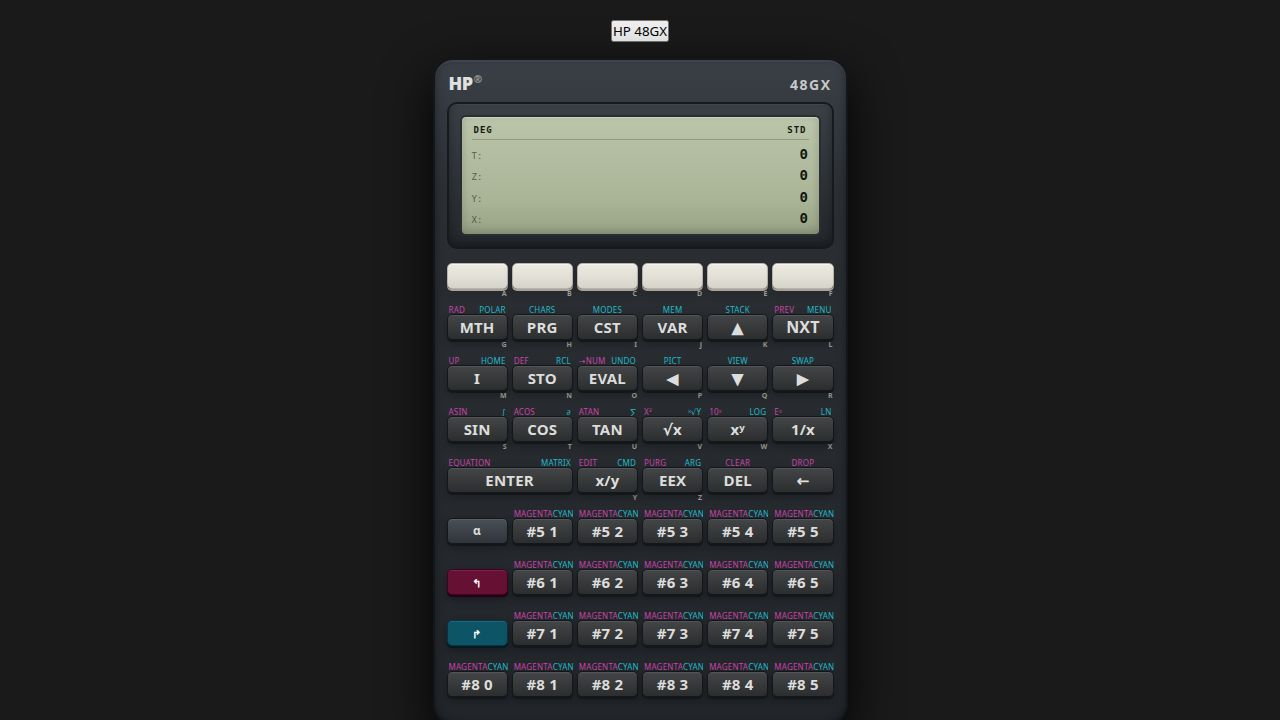
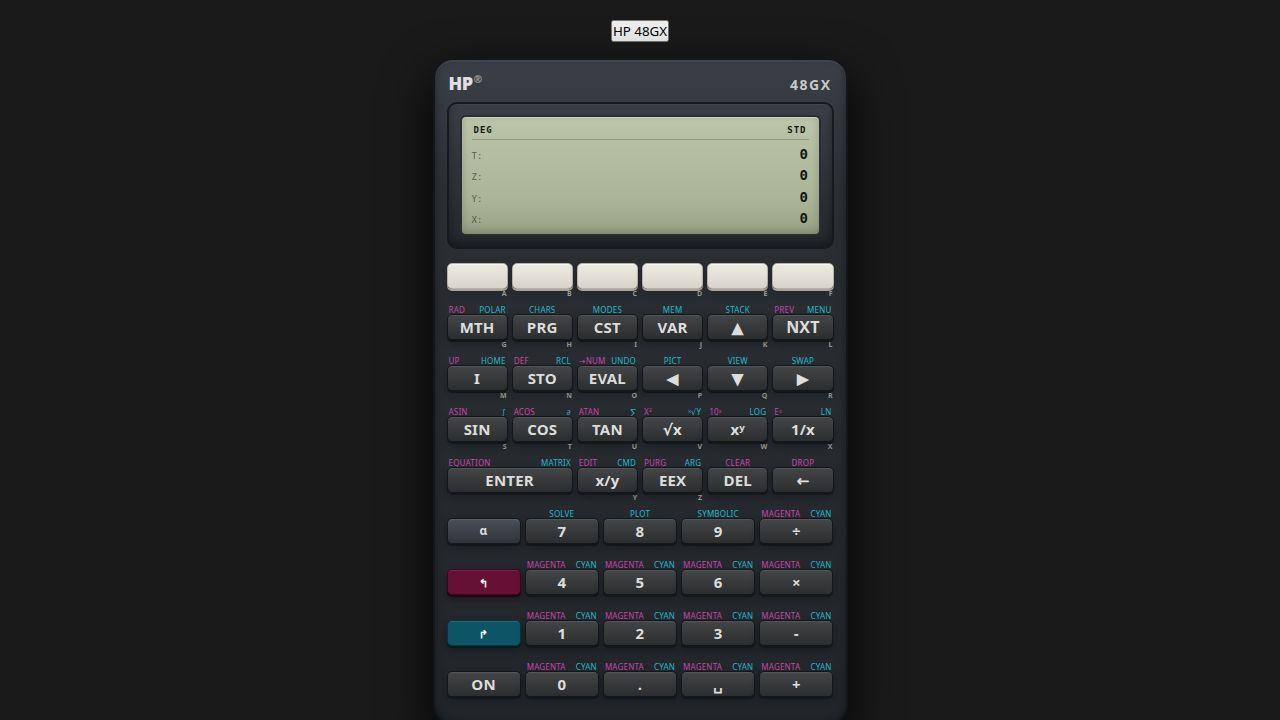
Merged changes from cqkmxlge/main
Replit-Task-Id: da86a8db-deb3-4f1d-8d0c-65576a8ced66

Changed region(s): [[0.3438, 0.7028, 0.6562, 0.9778]]

diff --git a/artifacts/rpn-calc/src/ui/components/KeyGrid.tsx b/artifacts/rpn-calc/src/ui/components/KeyGrid.tsx
@@ -44,9 +44,12 @@ function makeTestId(sectionId: string, rowId: string, keyId: string): string {
   return `${CALC_NS}__sec-${sectionId}__row-${rowId}__key-${keyId}`;
 }
 
-function resolveTopLabel(topMagenta: string | undefined, topCyan: string | undefined, topMerged: string | undefined, topMagentaMerged: string | undefined, shiftState: ShiftState) {
+function resolveTopLabel(topMagenta: string | undefined, topCyan: string | undefined, topMerged: string | undefined, topMagentaMerged: string | undefined, shiftState: ShiftState, topCyanMerged?: string) {
   if (topMagentaMerged) {
     return <span className={shiftState === "shiftedMagenta" ? "key-label-magenta key-label-active" : "key-label-magenta"}>{topMagentaMerged}</span>;
+  }
+  if (topCyanMerged) {
+    return <span className={shiftState === "shiftedCyan" ? "key-label-cyan key-label-active" : "key-label-cyan"}>{topCyanMerged}</span>;
   }
   if (topMerged) {
     return <span className={shiftState === "shiftedCyan" ? "key-label-cyan key-label-active" : "key-label-cyan"}>{topMerged}</span>;
@@ -120,8 +123,8 @@ export function KeyGrid({ shiftState, dispatch }: Props) {
                   return (
                     <div key={row.id} className="key-row" style={{ gridTemplateColumns: `repeat(${row.keys.length}, 1fr)` }}>
                       {row.keys.map((key, idx) => {
-                        const k = key as { topMagenta?: string; topCyan?: string; topMerged?: string; topColor?: string } & typeof key;
-                        const merged = Boolean(k.topMerged);
+                        const k = key as { topMagenta?: string; topCyan?: string; topMerged?: string; topCyanMerged?: string; topColor?: string } & typeof key;
+                        const merged = Boolean(k.topMerged) || Boolean(k.topCyanMerged);
                         const topColor = k.topColor;
                         const fnKey = makeKeyHandler(key.id, shiftState, dispatch);
                         const isActive = key.op === "SHIFT_MAGENTA" && shiftState === "shiftedMagenta"
@@ -140,7 +143,7 @@ export function KeyGrid({ shiftState, dispatch }: Props) {
                               <div className="key-cell-top-labels key-cell-top-labels--color-swatch" />
                             ) : (
                               <div className={`key-cell-top-labels${merged ? " key-cell-top-labels--merged" : ""}`}>
-                                {resolveTopLabel(k.topMagenta, k.topCyan, k.topMerged, undefined, shiftState)}
+                                {resolveTopLabel(k.topMagenta, k.topCyan, k.topMerged, undefined, shiftState, k.topCyanMerged)}
                               </div>
                             )}
                             <KeyButton

diff --git a/docs/tasks/task-40.md b/docs/tasks/task-40.md
@@ -1,0 +1,28 @@
+---
+title: Row 5 keys 1–3 merged cyan labels (SOLVE, PLOT, SYMBOLIC)
+---
+# Row 5 Keys 1–3 Merged Cyan Labels
+
+## What & Why
+Replace the placeholder split top labels on row 5 keys #1, #2, and #3 with a single centered label rendered in cyan, matching the `topMagentaMerged` pattern already used in row 4 but for the cyan color.
+
+## Done looks like
+- Row 5, key #1 (digit-7) shows a single centered cyan label "SOLVE" above the key
+- Row 5, key #2 (digit-8) shows a single centered cyan label "PLOT" above the key
+- Row 5, key #3 (digit-9) shows a single centered cyan label "SYMBOLIC" above the key
+- The existing placeholder `topMagenta`/`topCyan` split fields on these keys are removed
+- All other keys in row 5 and the rest of the keyboard are unchanged
+
+## Out of scope
+- Key #0 or key #4 in row 5
+- Any other rows
+- Any functional/op changes
+
+## Tasks
+1. In `hp48Keys.json`, replace the placeholder `topMagenta`/`topCyan` fields on `fn-5b`, `fn-5c`, and `fn-5d` with `topCyanMerged` fields set to "SOLVE", "PLOT", and "SYMBOLIC" respectively.
+2. In the key cell component and/or CSS, support `topCyanMerged` rendering — a single centered label styled in cyan (`#22bbcc`), following the same pattern used for `topMagentaMerged`.
+
+## Relevant files
+- `artifacts/rpn-calc/src/data/hp48Keys.json:73-81`
+- `artifacts/rpn-calc/src/ui/components/KeyGrid.tsx`
+- `artifacts/rpn-calc/src/styles/calculator.css`
